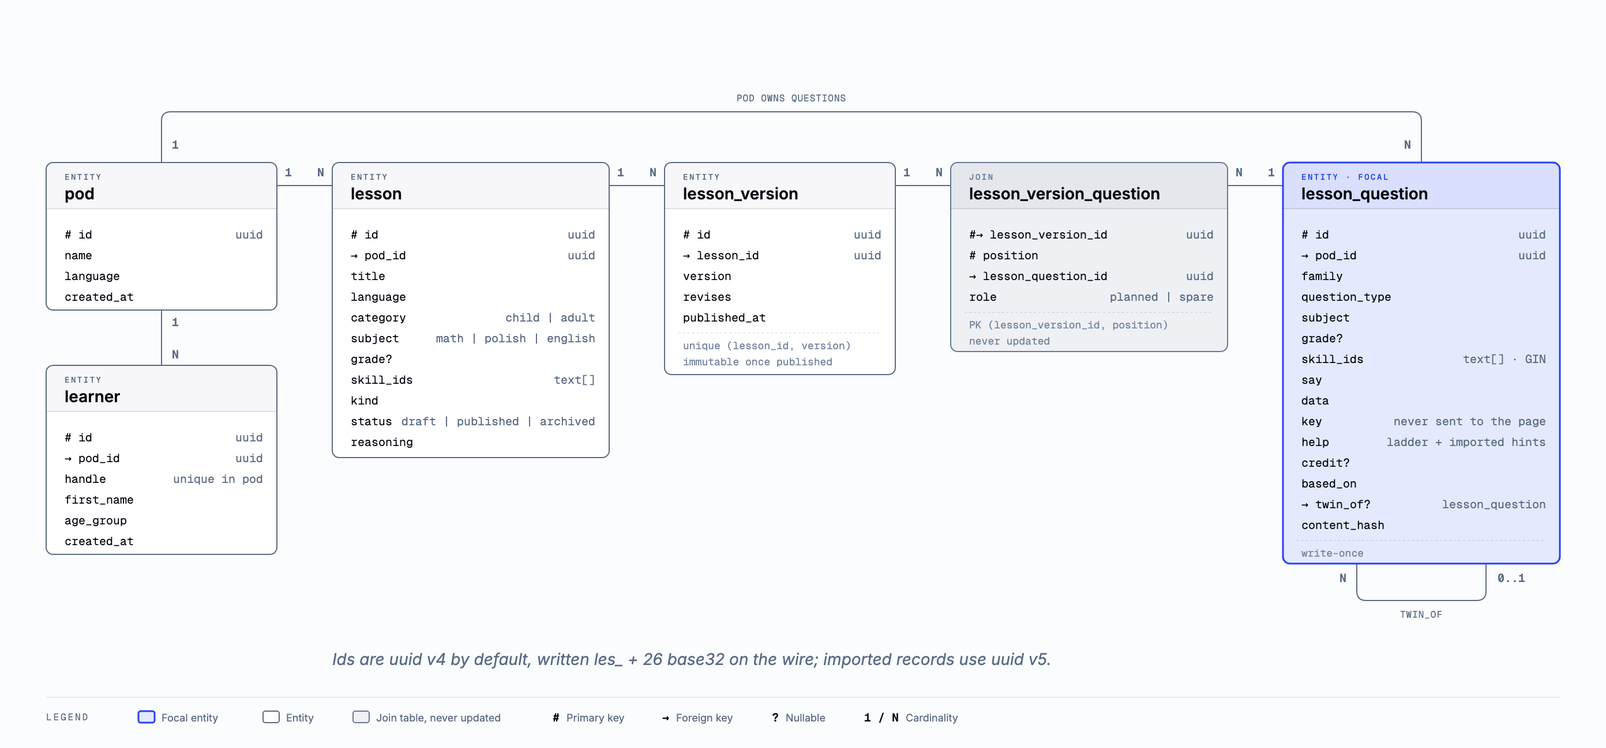
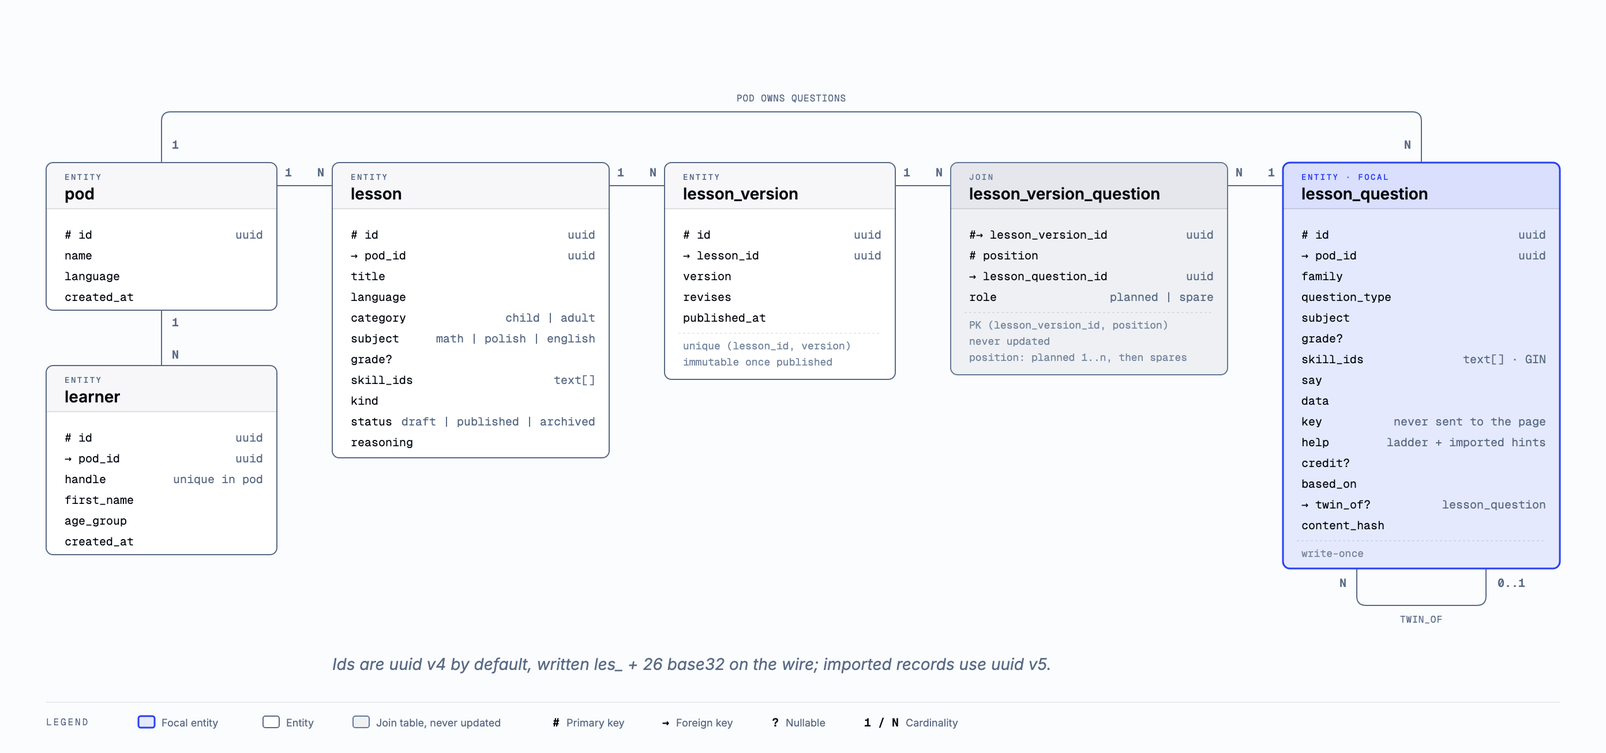
dl-e8ov.2.32.1: the ER diagrams note the 3 orders

diff --git a/docs/research/assets/core-v0-play.html b/docs/research/assets/core-v0-play.html
@@ -61,7 +61,7 @@
   <div class="frame">
     <p class="eyebrow">ER · Core v0 data model</p>
     <h1>Core v0: play and evidence</h1>
-    <svg viewBox="0 0 1184 820" xmlns="http://www.w3.org/2000/svg" role="img" aria-labelledby="core-v0-play-title core-v0-play-desc">
+    <svg viewBox="0 0 1184 836" xmlns="http://www.w3.org/2000/svg" role="img" aria-labelledby="core-v0-play-title core-v0-play-desc">
       <title id="core-v0-play-title">Core v0: play and evidence</title>
       <desc id="core-v0-play-desc">Entity-relationship model of core v0 play: an assignment of a lesson opens attempts, each attempt holds an ordered list of attempt questions, each question collects append-only attempt answers, and the attempt_result view reads both.</desc>
       <defs>
@@ -77,9 +77,9 @@
       <line x1="280" y1="180" x2="328" y2="180" stroke="#5a6b85" stroke-width="1"/>
       <line x1="568" y1="180" x2="616" y2="180" stroke="#5a6b85" stroke-width="1"/>
       <line x1="856" y1="180" x2="904" y2="180" stroke="#5a6b85" stroke-width="1"/>
-      <path d="M 648,380 V 404 Q 648,412 656,412 H 728 Q 736,412 736,404 V 380" fill="none" stroke="#5a6b85" stroke-width="1"/>
-      <line x1="816" y1="380" x2="816" y2="580" stroke="#5a6b85" stroke-width="1" stroke-dasharray="4,3" marker-end="url(#arrow)"/>
-      <line x1="1024" y1="524" x2="1024" y2="580" stroke="#5a6b85" stroke-width="1" stroke-dasharray="4,3" marker-end="url(#arrow)"/>
+      <path d="M 648,404 V 428 Q 648,436 656,436 H 728 Q 736,436 736,428 V 404" fill="none" stroke="#5a6b85" stroke-width="1"/>
+      <line x1="816" y1="404" x2="816" y2="596" stroke="#5a6b85" stroke-width="1" stroke-dasharray="4,3" marker-end="url(#arrow)"/>
+      <line x1="1024" y1="540" x2="1024" y2="596" stroke="#5a6b85" stroke-width="1" stroke-dasharray="4,3" marker-end="url(#arrow)"/>
       <!-- cardinality and labels -->
       <rect x="166" y="100" width="12" height="12" rx="2" fill="#fbfcfe"/>
       <text x="172.0" y="110" fill="#5a6b85" font-size="10" font-family="'Geist Mono', ui-monospace, monospace" font-weight="600" text-anchor="middle">1</text>
@@ -105,16 +105,16 @@
       <text x="866.0" y="172" fill="#5a6b85" font-size="10" font-family="'Geist Mono', ui-monospace, monospace" font-weight="600" text-anchor="middle">1</text>
       <rect x="888" y="162" width="12" height="12" rx="2" fill="#fbfcfe"/>
       <text x="894.0" y="172" fill="#5a6b85" font-size="10" font-family="'Geist Mono', ui-monospace, monospace" font-weight="600" text-anchor="middle">N</text>
-      <rect x="630" y="386" width="12" height="12" rx="2" fill="#fbfcfe"/>
-      <text x="636.0" y="396" fill="#5a6b85" font-size="10" font-family="'Geist Mono', ui-monospace, monospace" font-weight="600" text-anchor="middle">N</text>
-      <rect x="742" y="386" width="32" height="12" rx="2" fill="#fbfcfe"/>
-      <text x="758.0" y="396" fill="#5a6b85" font-size="10" font-family="'Geist Mono', ui-monospace, monospace" font-weight="600" text-anchor="middle">0..1</text>
-      <rect x="660.0" y="418" width="64" height="12" rx="2" fill="#fbfcfe"/>
-      <text x="692.0" y="427" fill="#5a6b85" font-size="8" font-family="'Geist Mono', ui-monospace, monospace" text-anchor="middle" letter-spacing="0.06em">ADDED_FOR</text>
-      <rect x="824" y="556" width="40" height="12" rx="2" fill="#fbfcfe"/>
-      <text x="844" y="565" fill="#5a6b85" font-size="8" font-family="'Geist Mono', ui-monospace, monospace" text-anchor="middle" letter-spacing="0.06em">READS</text>
-      <rect x="1032" y="556" width="40" height="12" rx="2" fill="#fbfcfe"/>
-      <text x="1052" y="565" fill="#5a6b85" font-size="8" font-family="'Geist Mono', ui-monospace, monospace" text-anchor="middle" letter-spacing="0.06em">READS</text>
+      <rect x="630" y="410" width="12" height="12" rx="2" fill="#fbfcfe"/>
+      <text x="636.0" y="420" fill="#5a6b85" font-size="10" font-family="'Geist Mono', ui-monospace, monospace" font-weight="600" text-anchor="middle">N</text>
+      <rect x="742" y="410" width="32" height="12" rx="2" fill="#fbfcfe"/>
+      <text x="758.0" y="420" fill="#5a6b85" font-size="10" font-family="'Geist Mono', ui-monospace, monospace" font-weight="600" text-anchor="middle">0..1</text>
+      <rect x="660.0" y="442" width="64" height="12" rx="2" fill="#fbfcfe"/>
+      <text x="692.0" y="451" fill="#5a6b85" font-size="8" font-family="'Geist Mono', ui-monospace, monospace" text-anchor="middle" letter-spacing="0.06em">ADDED_FOR</text>
+      <rect x="824" y="572" width="40" height="12" rx="2" fill="#fbfcfe"/>
+      <text x="844" y="581" fill="#5a6b85" font-size="8" font-family="'Geist Mono', ui-monospace, monospace" text-anchor="middle" letter-spacing="0.06em">READS</text>
+      <rect x="1032" y="572" width="40" height="12" rx="2" fill="#fbfcfe"/>
+      <text x="1052" y="581" fill="#5a6b85" font-size="8" font-family="'Geist Mono', ui-monospace, monospace" text-anchor="middle" letter-spacing="0.06em">READS</text>
       <!-- entities -->
       <rect x="80" y="48" width="160" height="48" rx="6" fill="#fbfcfe"/>
       <rect x="80" y="48" width="160" height="48" rx="6" fill="#ffffff" stroke="#7888a0" stroke-width="1"/>
@@ -173,8 +173,8 @@
       <text x="344" y="388" fill="#040810" font-size="10" font-family="'Geist Mono', ui-monospace, monospace">resume_at</text>
       <text x="344" y="406" fill="#040810" font-size="10" font-family="'Geist Mono', ui-monospace, monospace">started_at</text>
       <text x="344" y="424" fill="#040810" font-size="10" font-family="'Geist Mono', ui-monospace, monospace">finished_at</text>
-      <rect x="616" y="160" width="240" height="220" rx="6" fill="#fbfcfe"/>
-      <rect x="616" y="160" width="240" height="220" rx="6" fill="rgba(41,65,243,0.10)" stroke="#2941f3" stroke-width="1.5"/>
+      <rect x="616" y="160" width="240" height="244" rx="6" fill="#fbfcfe"/>
+      <rect x="616" y="160" width="240" height="244" rx="6" fill="rgba(41,65,243,0.10)" stroke="#2941f3" stroke-width="1.5"/>
       <path d="M 622,160 H 850 Q 856,160 856,166 V 200 H 616 V 166 Q 616,160 622,160 Z" fill="rgba(41,65,243,0.06)"/>
       <line x1="616" y1="200" x2="856" y2="200" stroke="rgba(9,22,40,0.12)" stroke-width="1"/>
       <text x="632" y="175" fill="#2941f3" font-size="7" font-family="'Geist Mono', ui-monospace, monospace" font-weight="500" letter-spacing="0.18em">ENTITY · FOCAL</text>
@@ -194,8 +194,10 @@
       <text x="632" y="352" fill="#040810" font-size="10" font-family="'Geist Mono', ui-monospace, monospace">ended</text>
       <text x="844" y="352" fill="#5a6b85" font-size="10" font-family="'Geist Mono', ui-monospace, monospace" text-anchor="end">correct | skipped</text>
       <text x="632" y="370" fill="#040810" font-size="10" font-family="'Geist Mono', ui-monospace, monospace">added_at</text>
-      <rect x="904" y="160" width="240" height="364" rx="6" fill="#fbfcfe"/>
-      <rect x="904" y="160" width="240" height="364" rx="6" fill="rgba(41,65,243,0.10)" stroke="#2941f3" stroke-width="1.5"/>
+      <line x1="628" y1="380" x2="844" y2="380" stroke="rgba(9,22,40,0.12)" stroke-width="0.8" stroke-dasharray="2,2"/>
+      <text x="632" y="394" fill="#7888a0" font-size="9" font-family="'Geist Mono', ui-monospace, monospace">written when asked · seq = play order</text>
+      <rect x="904" y="160" width="240" height="380" rx="6" fill="#fbfcfe"/>
+      <rect x="904" y="160" width="240" height="380" rx="6" fill="rgba(41,65,243,0.10)" stroke="#2941f3" stroke-width="1.5"/>
       <path d="M 910,160 H 1138 Q 1144,160 1144,166 V 200 H 904 V 166 Q 904,160 910,160 Z" fill="rgba(41,65,243,0.06)"/>
       <line x1="904" y1="200" x2="1144" y2="200" stroke="rgba(9,22,40,0.12)" stroke-width="1"/>
       <text x="920" y="175" fill="#2941f3" font-size="7" font-family="'Geist Mono', ui-monospace, monospace" font-weight="500" letter-spacing="0.18em">ENTITY · FOCAL</text>
@@ -220,47 +222,48 @@
       <line x1="916" y1="488" x2="1132" y2="488" stroke="rgba(9,22,40,0.12)" stroke-width="0.8" stroke-dasharray="2,2"/>
       <text x="920" y="502" fill="#7888a0" font-size="9" font-family="'Geist Mono', ui-monospace, monospace">unique (attempt_id, seq, try_no)</text>
       <text x="920" y="516" fill="#7888a0" font-size="9" font-family="'Geist Mono', ui-monospace, monospace">append-only</text>
-      <rect x="616" y="580" width="528" height="156" rx="6" fill="#fbfcfe"/>
-      <rect x="616" y="580" width="528" height="156" rx="6" fill="rgba(4,8,16,0.02)" stroke="#7888a0" stroke-width="1" stroke-dasharray="2,3"/>
-      <line x1="616" y1="620" x2="1144" y2="620" stroke="rgba(9,22,40,0.12)" stroke-width="1"/>
-      <text x="632" y="595" fill="#7888a0" font-size="7" font-family="'Geist Mono', ui-monospace, monospace" font-weight="500" letter-spacing="0.18em">VIEW · SECURITY_INVOKER</text>
-      <text x="632" y="612" fill="#040810" font-size="14" font-family="'Inter', system-ui, sans-serif" font-weight="600">attempt_result</text>
-      <text x="1132" y="612" fill="#7888a0" font-size="9" font-family="'Geist Mono', ui-monospace, monospace" text-anchor="end">one row per attempt_question</text>
-      <text x="632" y="646" fill="#040810" font-size="10" font-family="'Geist Mono', ui-monospace, monospace">seq</text>
-      <text x="632" y="664" fill="#040810" font-size="10" font-family="'Geist Mono', ui-monospace, monospace">added</text>
-      <text x="632" y="682" fill="#040810" font-size="10" font-family="'Geist Mono', ui-monospace, monospace">placed</text>
-      <text x="632" y="700" fill="#040810" font-size="10" font-family="'Geist Mono', ui-monospace, monospace">added_reason</text>
-      <text x="632" y="718" fill="#040810" font-size="10" font-family="'Geist Mono', ui-monospace, monospace">say</text>
-      <text x="808" y="646" fill="#040810" font-size="10" font-family="'Geist Mono', ui-monospace, monospace">family</text>
-      <text x="808" y="664" fill="#040810" font-size="10" font-family="'Geist Mono', ui-monospace, monospace">subject</text>
-      <text x="808" y="682" fill="#040810" font-size="10" font-family="'Geist Mono', ui-monospace, monospace">skill_ids</text>
-      <text x="808" y="700" fill="#040810" font-size="10" font-family="'Geist Mono', ui-monospace, monospace">tries</text>
-      <text x="808" y="718" fill="#040810" font-size="10" font-family="'Geist Mono', ui-monospace, monospace">first_try_correct</text>
-      <text x="984" y="646" fill="#040810" font-size="10" font-family="'Geist Mono', ui-monospace, monospace">mistake_classes</text>
-      <text x="984" y="664" fill="#040810" font-size="10" font-family="'Geist Mono', ui-monospace, monospace">help_used</text>
-      <text x="984" y="682" fill="#040810" font-size="10" font-family="'Geist Mono', ui-monospace, monospace">skip_reason</text>
-      <text x="984" y="700" fill="#040810" font-size="10" font-family="'Geist Mono', ui-monospace, monospace">time_ms</text>
-      <text x="984" y="718" fill="#040810" font-size="10" font-family="'Geist Mono', ui-monospace, monospace">ended</text>
+      <text x="920" y="530" fill="#7888a0" font-size="9" font-family="'Geist Mono', ui-monospace, monospace">try_no per question; skip takes next</text>
+      <rect x="616" y="596" width="528" height="156" rx="6" fill="#fbfcfe"/>
+      <rect x="616" y="596" width="528" height="156" rx="6" fill="rgba(4,8,16,0.02)" stroke="#7888a0" stroke-width="1" stroke-dasharray="2,3"/>
+      <line x1="616" y1="636" x2="1144" y2="636" stroke="rgba(9,22,40,0.12)" stroke-width="1"/>
+      <text x="632" y="611" fill="#7888a0" font-size="7" font-family="'Geist Mono', ui-monospace, monospace" font-weight="500" letter-spacing="0.18em">VIEW · SECURITY_INVOKER</text>
+      <text x="632" y="628" fill="#040810" font-size="14" font-family="'Inter', system-ui, sans-serif" font-weight="600">attempt_result</text>
+      <text x="1132" y="628" fill="#7888a0" font-size="9" font-family="'Geist Mono', ui-monospace, monospace" text-anchor="end">one row per attempt_question</text>
+      <text x="632" y="662" fill="#040810" font-size="10" font-family="'Geist Mono', ui-monospace, monospace">seq</text>
+      <text x="632" y="680" fill="#040810" font-size="10" font-family="'Geist Mono', ui-monospace, monospace">added</text>
+      <text x="632" y="698" fill="#040810" font-size="10" font-family="'Geist Mono', ui-monospace, monospace">placed</text>
+      <text x="632" y="716" fill="#040810" font-size="10" font-family="'Geist Mono', ui-monospace, monospace">added_reason</text>
+      <text x="632" y="734" fill="#040810" font-size="10" font-family="'Geist Mono', ui-monospace, monospace">say</text>
+      <text x="808" y="662" fill="#040810" font-size="10" font-family="'Geist Mono', ui-monospace, monospace">family</text>
+      <text x="808" y="680" fill="#040810" font-size="10" font-family="'Geist Mono', ui-monospace, monospace">subject</text>
+      <text x="808" y="698" fill="#040810" font-size="10" font-family="'Geist Mono', ui-monospace, monospace">skill_ids</text>
+      <text x="808" y="716" fill="#040810" font-size="10" font-family="'Geist Mono', ui-monospace, monospace">tries</text>
+      <text x="808" y="734" fill="#040810" font-size="10" font-family="'Geist Mono', ui-monospace, monospace">first_try_correct</text>
+      <text x="984" y="662" fill="#040810" font-size="10" font-family="'Geist Mono', ui-monospace, monospace">mistake_classes</text>
+      <text x="984" y="680" fill="#040810" font-size="10" font-family="'Geist Mono', ui-monospace, monospace">help_used</text>
+      <text x="984" y="698" fill="#040810" font-size="10" font-family="'Geist Mono', ui-monospace, monospace">skip_reason</text>
+      <text x="984" y="716" fill="#040810" font-size="10" font-family="'Geist Mono', ui-monospace, monospace">time_ms</text>
+      <text x="984" y="734" fill="#040810" font-size="10" font-family="'Geist Mono', ui-monospace, monospace">ended</text>
       <text x="40" y="488" fill="#5a6b85" font-size="14" font-family="'Inter', system-ui, sans-serif" font-style="italic">Every row carries pod_id, and RLS compares it</text>
       <text x="40" y="510" fill="#5a6b85" font-size="14" font-family="'Inter', system-ui, sans-serif" font-style="italic">with app.pod_id, set per transaction after authorize().</text>
-      <line x1="40" y1="776" x2="1144" y2="776" stroke="rgba(9,22,40,0.10)" stroke-width="0.8"/>
-      <text x="40" y="796" fill="#5a6b85" font-size="8" font-family="'Geist Mono', ui-monospace, monospace" letter-spacing="0.18em">LEGEND</text>
-      <rect x="120" y="788" width="14" height="10" rx="2" fill="rgba(41,65,243,0.10)" stroke="#2941f3" stroke-width="1.5"/>
-      <text x="140" y="797" fill="#5a6b85" font-size="9" font-family="'Inter', system-ui, sans-serif">Focal</text>
-      <rect x="193.0" y="788" width="14" height="10" rx="2" fill="#ffffff" stroke="#5a6b85" stroke-width="1"/>
-      <text x="213.0" y="797" fill="#5a6b85" font-size="9" font-family="'Inter', system-ui, sans-serif">Entity</text>
-      <rect x="271.0" y="788" width="14" height="10" rx="2" fill="rgba(4,8,16,0.02)" stroke="#7888a0" stroke-width="1" stroke-dasharray="3,2"/>
-      <text x="291.0" y="797" fill="#5a6b85" font-size="9" font-family="'Inter', system-ui, sans-serif">View</text>
-      <rect x="339.0" y="788" width="14" height="10" rx="2" fill="#ffffff" stroke="#7888a0" stroke-width="1"/>
-      <text x="359.0" y="797" fill="#5a6b85" font-size="9" font-family="'Inter', system-ui, sans-serif">In the content model</text>
-      <line x1="487.0" y1="793" x2="511.0" y2="793" stroke="#5a6b85" stroke-width="1" stroke-dasharray="4,3" marker-end="url(#arrow)"/>
-      <text x="519.0" y="797" fill="#5a6b85" font-size="9" font-family="'Inter', system-ui, sans-serif">Read by the view</text>
-      <text x="627.0" y="797" fill="#040810" font-size="10" font-family="'Geist Mono', ui-monospace, monospace" font-weight="600">#</text>
-      <text x="639.0" y="797" fill="#5a6b85" font-size="9" font-family="'Inter', system-ui, sans-serif">Primary key</text>
-      <text x="722.0" y="797" fill="#040810" font-size="10" font-family="'Geist Mono', ui-monospace, monospace" font-weight="600">→</text>
-      <text x="734.0" y="797" fill="#5a6b85" font-size="9" font-family="'Inter', system-ui, sans-serif">Foreign key</text>
-      <text x="817.0" y="797" fill="#040810" font-size="10" font-family="'Geist Mono', ui-monospace, monospace" font-weight="600">1 / N</text>
-      <text x="853.0" y="797" fill="#5a6b85" font-size="9" font-family="'Inter', system-ui, sans-serif">Cardinality</text>
+      <line x1="40" y1="792" x2="1144" y2="792" stroke="rgba(9,22,40,0.10)" stroke-width="0.8"/>
+      <text x="40" y="812" fill="#5a6b85" font-size="8" font-family="'Geist Mono', ui-monospace, monospace" letter-spacing="0.18em">LEGEND</text>
+      <rect x="120" y="804" width="14" height="10" rx="2" fill="rgba(41,65,243,0.10)" stroke="#2941f3" stroke-width="1.5"/>
+      <text x="140" y="813" fill="#5a6b85" font-size="9" font-family="'Inter', system-ui, sans-serif">Focal</text>
+      <rect x="193.0" y="804" width="14" height="10" rx="2" fill="#ffffff" stroke="#5a6b85" stroke-width="1"/>
+      <text x="213.0" y="813" fill="#5a6b85" font-size="9" font-family="'Inter', system-ui, sans-serif">Entity</text>
+      <rect x="271.0" y="804" width="14" height="10" rx="2" fill="rgba(4,8,16,0.02)" stroke="#7888a0" stroke-width="1" stroke-dasharray="3,2"/>
+      <text x="291.0" y="813" fill="#5a6b85" font-size="9" font-family="'Inter', system-ui, sans-serif">View</text>
+      <rect x="339.0" y="804" width="14" height="10" rx="2" fill="#ffffff" stroke="#7888a0" stroke-width="1"/>
+      <text x="359.0" y="813" fill="#5a6b85" font-size="9" font-family="'Inter', system-ui, sans-serif">In the content model</text>
+      <line x1="487.0" y1="809" x2="511.0" y2="809" stroke="#5a6b85" stroke-width="1" stroke-dasharray="4,3" marker-end="url(#arrow)"/>
+      <text x="519.0" y="813" fill="#5a6b85" font-size="9" font-family="'Inter', system-ui, sans-serif">Read by the view</text>
+      <text x="627.0" y="813" fill="#040810" font-size="10" font-family="'Geist Mono', ui-monospace, monospace" font-weight="600">#</text>
+      <text x="639.0" y="813" fill="#5a6b85" font-size="9" font-family="'Inter', system-ui, sans-serif">Primary key</text>
+      <text x="722.0" y="813" fill="#040810" font-size="10" font-family="'Geist Mono', ui-monospace, monospace" font-weight="600">→</text>
+      <text x="734.0" y="813" fill="#5a6b85" font-size="9" font-family="'Inter', system-ui, sans-serif">Foreign key</text>
+      <text x="817.0" y="813" fill="#040810" font-size="10" font-family="'Geist Mono', ui-monospace, monospace" font-weight="600">1 / N</text>
+      <text x="853.0" y="813" fill="#5a6b85" font-size="9" font-family="'Inter', system-ui, sans-serif">Cardinality</text>
     </svg>
     <p class="caption">Five entities and three stubs from the content model. attempt_question and attempt_answer are the evidence a parent sees.</p>
   </div>

diff --git a/docs/research/assets/core-v0-content.html b/docs/research/assets/core-v0-content.html
@@ -61,7 +61,7 @@
   <div class="frame">
     <p class="eyebrow">ER · Core v0 data model</p>
     <h1>Core v0: content</h1>
-    <svg viewBox="0 0 1392 648" xmlns="http://www.w3.org/2000/svg" role="img" aria-labelledby="core-v0-content-title core-v0-content-desc">
+    <svg viewBox="0 0 1392 652" xmlns="http://www.w3.org/2000/svg" role="img" aria-labelledby="core-v0-content-title core-v0-content-desc">
       <title id="core-v0-content-title">Core v0: content</title>
       <desc id="core-v0-content-desc">Entity-relationship model of core v0 content: a pod owns learners, lessons and write-once lesson questions, and each published lesson version lists its questions in order through lesson_version_question.</desc>
       <defs>
@@ -77,7 +77,7 @@
       <line x1="1064" y1="160" x2="1112" y2="160" stroke="#5a6b85" stroke-width="1"/>
       <line x1="140" y1="268" x2="140" y2="316" stroke="#5a6b85" stroke-width="1"/>
       <path d="M 140,140 V 104 Q 140,96 148,96 H 1224 Q 1232,96 1232,104 V 140" fill="none" stroke="#5a6b85" stroke-width="1"/>
-      <path d="M 1176,488 V 512 Q 1176,520 1184,520 H 1280 Q 1288,520 1288,512 V 488" fill="none" stroke="#5a6b85" stroke-width="1"/>
+      <path d="M 1176,492 V 516 Q 1176,524 1184,524 H 1280 Q 1288,524 1288,516 V 492" fill="none" stroke="#5a6b85" stroke-width="1"/>
       <!-- cardinality and labels -->
       <rect x="244" y="142" width="12" height="12" rx="2" fill="#fbfcfe"/>
       <text x="250.0" y="152" fill="#5a6b85" font-size="10" font-family="'Geist Mono', ui-monospace, monospace" font-weight="600" text-anchor="middle">1</text>
@@ -105,12 +105,12 @@
       <text x="1220.0" y="128" fill="#5a6b85" font-size="10" font-family="'Geist Mono', ui-monospace, monospace" font-weight="600" text-anchor="middle">N</text>
       <rect x="628.0" y="78" width="116" height="12" rx="2" fill="#fbfcfe"/>
       <text x="686.0" y="87" fill="#5a6b85" font-size="8" font-family="'Geist Mono', ui-monospace, monospace" text-anchor="middle" letter-spacing="0.06em">POD OWNS QUESTIONS</text>
-      <rect x="1158" y="494" width="12" height="12" rx="2" fill="#fbfcfe"/>
-      <text x="1164.0" y="504" fill="#5a6b85" font-size="10" font-family="'Geist Mono', ui-monospace, monospace" font-weight="600" text-anchor="middle">N</text>
-      <rect x="1294" y="494" width="32" height="12" rx="2" fill="#fbfcfe"/>
-      <text x="1310.0" y="504" fill="#5a6b85" font-size="10" font-family="'Geist Mono', ui-monospace, monospace" font-weight="600" text-anchor="middle">0..1</text>
-      <rect x="1206.0" y="526" width="52" height="12" rx="2" fill="#fbfcfe"/>
-      <text x="1232.0" y="535" fill="#5a6b85" font-size="8" font-family="'Geist Mono', ui-monospace, monospace" text-anchor="middle" letter-spacing="0.06em">TWIN_OF</text>
+      <rect x="1158" y="498" width="12" height="12" rx="2" fill="#fbfcfe"/>
+      <text x="1164.0" y="508" fill="#5a6b85" font-size="10" font-family="'Geist Mono', ui-monospace, monospace" font-weight="600" text-anchor="middle">N</text>
+      <rect x="1294" y="498" width="32" height="12" rx="2" fill="#fbfcfe"/>
+      <text x="1310.0" y="508" fill="#5a6b85" font-size="10" font-family="'Geist Mono', ui-monospace, monospace" font-weight="600" text-anchor="middle">0..1</text>
+      <rect x="1206.0" y="530" width="52" height="12" rx="2" fill="#fbfcfe"/>
+      <text x="1232.0" y="539" fill="#5a6b85" font-size="8" font-family="'Geist Mono', ui-monospace, monospace" text-anchor="middle" letter-spacing="0.06em">TWIN_OF</text>
       <!-- entities -->
       <rect x="40" y="140" width="200" height="128" rx="6" fill="#fbfcfe"/>
       <rect x="40" y="140" width="200" height="128" rx="6" fill="#ffffff" stroke="#5a6b85" stroke-width="1"/>
@@ -161,8 +161,8 @@
       <text x="304" y="368" fill="#040810" font-size="10" font-family="'Geist Mono', ui-monospace, monospace">status</text>
       <text x="516" y="368" fill="#5a6b85" font-size="10" font-family="'Geist Mono', ui-monospace, monospace" text-anchor="end">draft | published | archived</text>
       <text x="304" y="386" fill="#040810" font-size="10" font-family="'Geist Mono', ui-monospace, monospace">reasoning</text>
-      <rect x="576" y="140" width="200" height="184" rx="6" fill="#fbfcfe"/>
-      <rect x="576" y="140" width="200" height="184" rx="6" fill="#ffffff" stroke="#5a6b85" stroke-width="1"/>
+      <rect x="576" y="140" width="200" height="188" rx="6" fill="#fbfcfe"/>
+      <rect x="576" y="140" width="200" height="188" rx="6" fill="#ffffff" stroke="#5a6b85" stroke-width="1"/>
       <path d="M 582,140 H 770 Q 776,140 776,146 V 180 H 576 V 146 Q 576,140 582,140 Z" fill="rgba(90,107,133,0.05)"/>
       <line x1="576" y1="180" x2="776" y2="180" stroke="rgba(9,22,40,0.12)" stroke-width="1"/>
       <text x="592" y="155" fill="#5a6b85" font-size="7" font-family="'Geist Mono', ui-monospace, monospace" font-weight="500" letter-spacing="0.18em">ENTITY</text>
@@ -177,8 +177,8 @@
       <line x1="588" y1="288" x2="764" y2="288" stroke="rgba(9,22,40,0.12)" stroke-width="0.8" stroke-dasharray="2,2"/>
       <text x="592" y="302" fill="#7888a0" font-size="9" font-family="'Geist Mono', ui-monospace, monospace">unique (lesson_id, version)</text>
       <text x="592" y="316" fill="#7888a0" font-size="9" font-family="'Geist Mono', ui-monospace, monospace">immutable once published</text>
-      <rect x="824" y="140" width="240" height="164" rx="6" fill="#fbfcfe"/>
-      <rect x="824" y="140" width="240" height="164" rx="6" fill="rgba(90,107,133,0.08)" stroke="#667997" stroke-width="1"/>
+      <rect x="824" y="140" width="240" height="184" rx="6" fill="#fbfcfe"/>
+      <rect x="824" y="140" width="240" height="184" rx="6" fill="rgba(90,107,133,0.08)" stroke="#667997" stroke-width="1"/>
       <path d="M 830,140 H 1058 Q 1064,140 1064,146 V 180 H 824 V 146 Q 824,140 830,140 Z" fill="rgba(90,107,133,0.06)"/>
       <line x1="824" y1="180" x2="1064" y2="180" stroke="rgba(9,22,40,0.12)" stroke-width="1"/>
       <text x="840" y="155" fill="#667997" font-size="7" font-family="'Geist Mono', ui-monospace, monospace" font-weight="500" letter-spacing="0.18em">JOIN</text>
@@ -193,8 +193,9 @@
       <line x1="836" y1="270" x2="1052" y2="270" stroke="rgba(9,22,40,0.12)" stroke-width="0.8" stroke-dasharray="2,2"/>
       <text x="840" y="284" fill="#7888a0" font-size="9" font-family="'Geist Mono', ui-monospace, monospace">PK (lesson_version_id, position)</text>
       <text x="840" y="298" fill="#7888a0" font-size="9" font-family="'Geist Mono', ui-monospace, monospace">never updated</text>
-      <rect x="1112" y="140" width="240" height="348" rx="6" fill="#fbfcfe"/>
-      <rect x="1112" y="140" width="240" height="348" rx="6" fill="rgba(41,65,243,0.10)" stroke="#2941f3" stroke-width="1.5"/>
+      <text x="840" y="312" fill="#7888a0" font-size="9" font-family="'Geist Mono', ui-monospace, monospace">position: planned 1..n, then spares</text>
+      <rect x="1112" y="140" width="240" height="352" rx="6" fill="#fbfcfe"/>
+      <rect x="1112" y="140" width="240" height="352" rx="6" fill="rgba(41,65,243,0.10)" stroke="#2941f3" stroke-width="1.5"/>
       <path d="M 1118,140 H 1346 Q 1352,140 1352,146 V 180 H 1112 V 146 Q 1112,140 1118,140 Z" fill="rgba(41,65,243,0.06)"/>
       <line x1="1112" y1="180" x2="1352" y2="180" stroke="rgba(9,22,40,0.12)" stroke-width="1"/>
       <text x="1128" y="155" fill="#2941f3" font-size="7" font-family="'Geist Mono', ui-monospace, monospace" font-weight="500" letter-spacing="0.18em">ENTITY · FOCAL</text>
@@ -222,23 +223,23 @@
       <text x="1128" y="458" fill="#040810" font-size="10" font-family="'Geist Mono', ui-monospace, monospace">content_hash</text>
       <line x1="1124" y1="468" x2="1340" y2="468" stroke="rgba(9,22,40,0.12)" stroke-width="0.8" stroke-dasharray="2,2"/>
       <text x="1128" y="482" fill="#7888a0" font-size="9" font-family="'Geist Mono', ui-monospace, monospace">write-once</text>
-      <text x="288" y="576" fill="#5a6b85" font-size="14" font-family="'Inter', system-ui, sans-serif" font-style="italic">Ids are uuid v4 by default, written les_ + 26 base32 on the wire; imported records use uuid v5.</text>
-      <line x1="40" y1="604" x2="1352" y2="604" stroke="rgba(9,22,40,0.10)" stroke-width="0.8"/>
-      <text x="40" y="624" fill="#5a6b85" font-size="8" font-family="'Geist Mono', ui-monospace, monospace" letter-spacing="0.18em">LEGEND</text>
-      <rect x="120" y="616" width="14" height="10" rx="2" fill="rgba(41,65,243,0.10)" stroke="#2941f3" stroke-width="1.5"/>
-      <text x="140" y="625" fill="#5a6b85" font-size="9" font-family="'Inter', system-ui, sans-serif">Focal entity</text>
-      <rect x="228.0" y="616" width="14" height="10" rx="2" fill="#ffffff" stroke="#5a6b85" stroke-width="1"/>
-      <text x="248.0" y="625" fill="#5a6b85" font-size="9" font-family="'Inter', system-ui, sans-serif">Entity</text>
-      <rect x="306.0" y="616" width="14" height="10" rx="2" fill="rgba(90,107,133,0.08)" stroke="#667997" stroke-width="1"/>
-      <text x="326.0" y="625" fill="#5a6b85" font-size="9" font-family="'Inter', system-ui, sans-serif">Join table, never updated</text>
-      <text x="479.0" y="625" fill="#040810" font-size="10" font-family="'Geist Mono', ui-monospace, monospace" font-weight="600">#</text>
-      <text x="491.0" y="625" fill="#5a6b85" font-size="9" font-family="'Inter', system-ui, sans-serif">Primary key</text>
-      <text x="574.0" y="625" fill="#040810" font-size="10" font-family="'Geist Mono', ui-monospace, monospace" font-weight="600">→</text>
-      <text x="586.0" y="625" fill="#5a6b85" font-size="9" font-family="'Inter', system-ui, sans-serif">Foreign key</text>
-      <text x="669.0" y="625" fill="#040810" font-size="10" font-family="'Geist Mono', ui-monospace, monospace" font-weight="600">?</text>
-      <text x="681.0" y="625" fill="#5a6b85" font-size="9" font-family="'Inter', system-ui, sans-serif">Nullable</text>
-      <text x="749.0" y="625" fill="#040810" font-size="10" font-family="'Geist Mono', ui-monospace, monospace" font-weight="600">1 / N</text>
-      <text x="785.0" y="625" fill="#5a6b85" font-size="9" font-family="'Inter', system-ui, sans-serif">Cardinality</text>
+      <text x="288" y="580" fill="#5a6b85" font-size="14" font-family="'Inter', system-ui, sans-serif" font-style="italic">Ids are uuid v4 by default, written les_ + 26 base32 on the wire; imported records use uuid v5.</text>
+      <line x1="40" y1="608" x2="1352" y2="608" stroke="rgba(9,22,40,0.10)" stroke-width="0.8"/>
+      <text x="40" y="628" fill="#5a6b85" font-size="8" font-family="'Geist Mono', ui-monospace, monospace" letter-spacing="0.18em">LEGEND</text>
+      <rect x="120" y="620" width="14" height="10" rx="2" fill="rgba(41,65,243,0.10)" stroke="#2941f3" stroke-width="1.5"/>
+      <text x="140" y="629" fill="#5a6b85" font-size="9" font-family="'Inter', system-ui, sans-serif">Focal entity</text>
+      <rect x="228.0" y="620" width="14" height="10" rx="2" fill="#ffffff" stroke="#5a6b85" stroke-width="1"/>
+      <text x="248.0" y="629" fill="#5a6b85" font-size="9" font-family="'Inter', system-ui, sans-serif">Entity</text>
+      <rect x="306.0" y="620" width="14" height="10" rx="2" fill="rgba(90,107,133,0.08)" stroke="#667997" stroke-width="1"/>
+      <text x="326.0" y="629" fill="#5a6b85" font-size="9" font-family="'Inter', system-ui, sans-serif">Join table, never updated</text>
+      <text x="479.0" y="629" fill="#040810" font-size="10" font-family="'Geist Mono', ui-monospace, monospace" font-weight="600">#</text>
+      <text x="491.0" y="629" fill="#5a6b85" font-size="9" font-family="'Inter', system-ui, sans-serif">Primary key</text>
+      <text x="574.0" y="629" fill="#040810" font-size="10" font-family="'Geist Mono', ui-monospace, monospace" font-weight="600">→</text>
+      <text x="586.0" y="629" fill="#5a6b85" font-size="9" font-family="'Inter', system-ui, sans-serif">Foreign key</text>
+      <text x="669.0" y="629" fill="#040810" font-size="10" font-family="'Geist Mono', ui-monospace, monospace" font-weight="600">?</text>
+      <text x="681.0" y="629" fill="#5a6b85" font-size="9" font-family="'Inter', system-ui, sans-serif">Nullable</text>
+      <text x="749.0" y="629" fill="#040810" font-size="10" font-family="'Geist Mono', ui-monospace, monospace" font-weight="600">1 / N</text>
+      <text x="785.0" y="629" fill="#5a6b85" font-size="9" font-family="'Inter', system-ui, sans-serif">Cardinality</text>
     </svg>
     <p class="caption">Six entities. Lesson questions are the focal record: write-once, referenced by position from immutable lesson versions.</p>
   </div>
